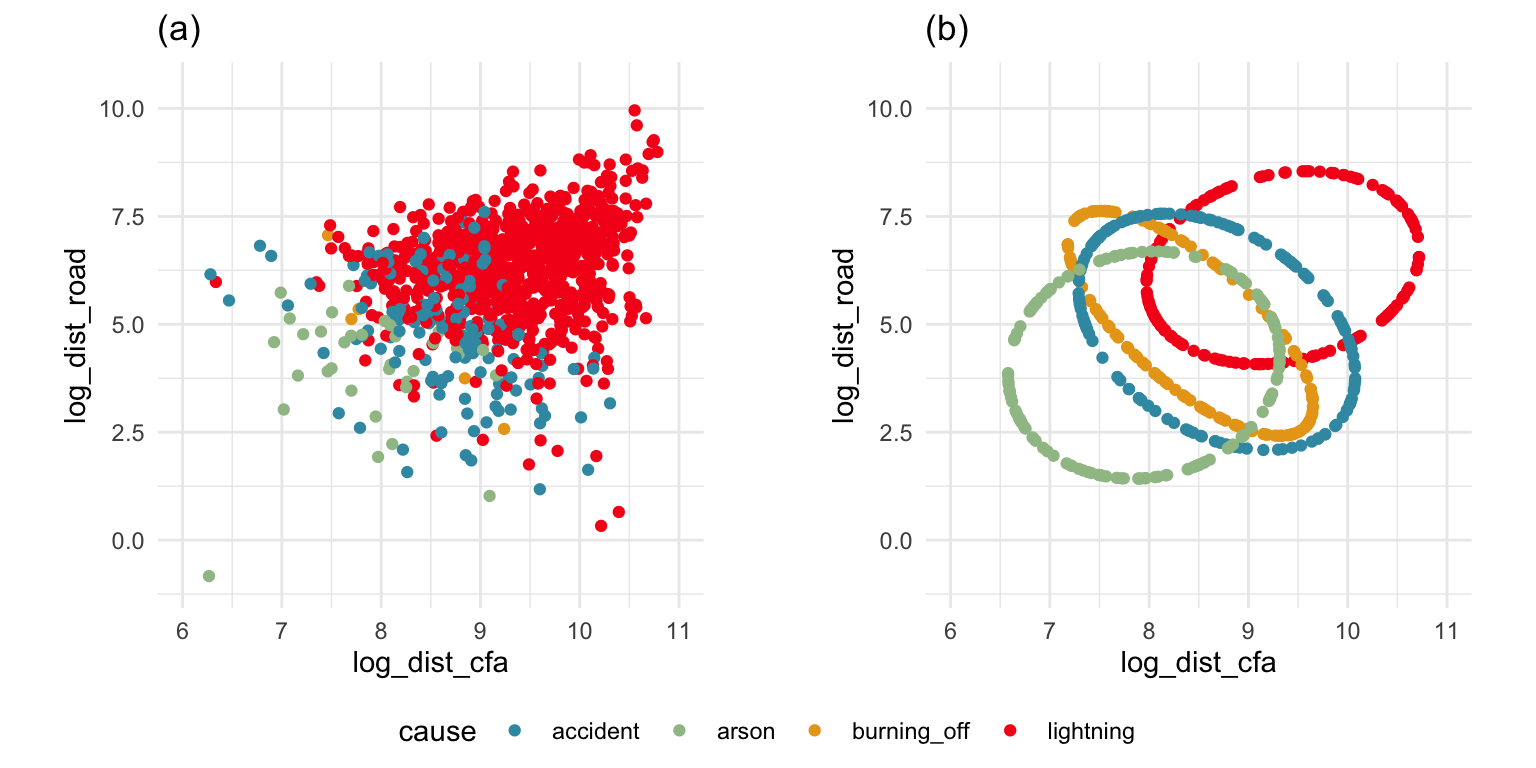
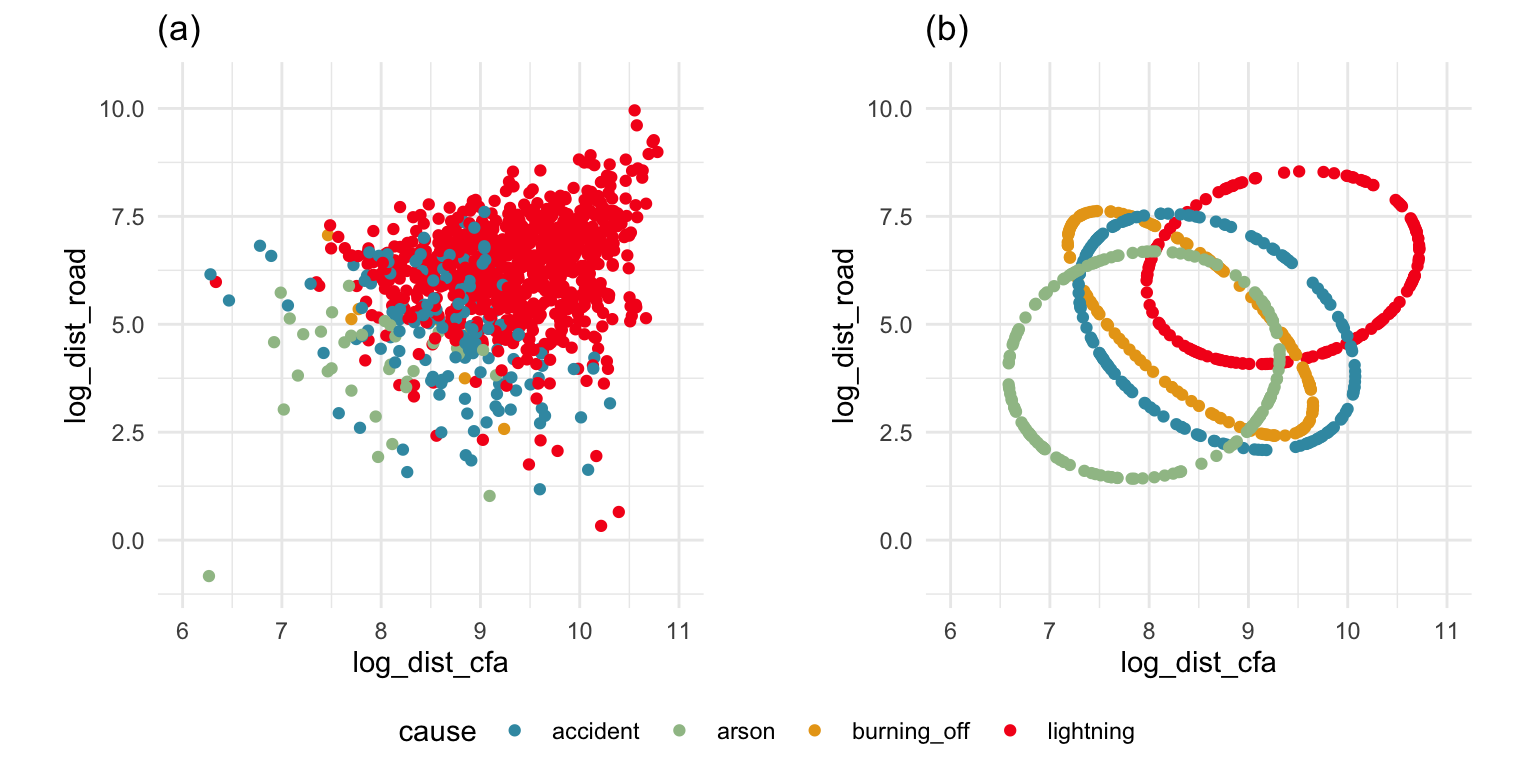
roughly filled in k-means

diff --git a/docs/kmeans-clustering.html b/docs/kmeans-clustering.html
@@ -20,6 +20,69 @@ ul.task-list li input[type="checkbox"] {
   margin: 0 0.8em 0.2em -1.6em;
   vertical-align: middle;
 }
+pre > code.sourceCode { white-space: pre; position: relative; }
+pre > code.sourceCode > span { display: inline-block; line-height: 1.25; }
+pre > code.sourceCode > span:empty { height: 1.2em; }
+.sourceCode { overflow: visible; }
+code.sourceCode > span { color: inherit; text-decoration: inherit; }
+div.sourceCode { margin: 1em 0; }
+pre.sourceCode { margin: 0; }
+@media screen {
+div.sourceCode { overflow: auto; }
+}
+@media print {
+pre > code.sourceCode { white-space: pre-wrap; }
+pre > code.sourceCode > span { text-indent: -5em; padding-left: 5em; }
+}
+pre.numberSource code
+  { counter-reset: source-line 0; }
+pre.numberSource code > span
+  { position: relative; left: -4em; counter-increment: source-line; }
+pre.numberSource code > span > a:first-child::before
+  { content: counter(source-line);
+    position: relative; left: -1em; text-align: right; vertical-align: baseline;
+    border: none; display: inline-block;
+    -webkit-touch-callout: none; -webkit-user-select: none;
+    -khtml-user-select: none; -moz-user-select: none;
+    -ms-user-select: none; user-select: none;
+    padding: 0 4px; width: 4em;
+    color: #aaaaaa;
+  }
+pre.numberSource { margin-left: 3em; border-left: 1px solid #aaaaaa;  padding-left: 4px; }
+div.sourceCode
+  {   }
+@media screen {
+pre > code.sourceCode > span > a:first-child::before { text-decoration: underline; }
+}
+code span.al { color: #ff0000; font-weight: bold; } /* Alert */
+code span.an { color: #60a0b0; font-weight: bold; font-style: italic; } /* Annotation */
+code span.at { color: #7d9029; } /* Attribute */
+code span.bn { color: #40a070; } /* BaseN */
+code span.bu { color: #008000; } /* BuiltIn */
+code span.cf { color: #007020; font-weight: bold; } /* ControlFlow */
+code span.ch { color: #4070a0; } /* Char */
+code span.cn { color: #880000; } /* Constant */
+code span.co { color: #60a0b0; font-style: italic; } /* Comment */
+code span.cv { color: #60a0b0; font-weight: bold; font-style: italic; } /* CommentVar */
+code span.do { color: #ba2121; font-style: italic; } /* Documentation */
+code span.dt { color: #902000; } /* DataType */
+code span.dv { color: #40a070; } /* DecVal */
+code span.er { color: #ff0000; font-weight: bold; } /* Error */
+code span.ex { } /* Extension */
+code span.fl { color: #40a070; } /* Float */
+code span.fu { color: #06287e; } /* Function */
+code span.im { color: #008000; font-weight: bold; } /* Import */
+code span.in { color: #60a0b0; font-weight: bold; font-style: italic; } /* Information */
+code span.kw { color: #007020; font-weight: bold; } /* Keyword */
+code span.op { color: #666666; } /* Operator */
+code span.ot { color: #007020; } /* Other */
+code span.pp { color: #bc7a00; } /* Preprocessor */
+code span.sc { color: #4070a0; } /* SpecialChar */
+code span.ss { color: #bb6688; } /* SpecialString */
+code span.st { color: #4070a0; } /* String */
+code span.va { color: #19177c; } /* Variable */
+code span.vs { color: #4070a0; } /* VerbatimString */
+code span.wa { color: #60a0b0; font-weight: bold; font-style: italic; } /* Warning */
 </style>
 
 
@@ -261,7 +324,13 @@ ul.task-list li input[type="checkbox"] {
 </nav>
 <!-- margin-sidebar -->
     <div id="quarto-margin-sidebar" class="sidebar margin-sidebar">
-        
+        <nav id="TOC" role="doc-toc" class="toc-active">
+    <h2 id="toc-title">Table of contents</h2>
+   
+  <ul>
+  <li><a href="#exercises" id="toc-exercises" class="nav-link active" data-scroll-target="#exercises">Exercises</a></li>
+  </ul>
+</nav>
     </div>
 <!-- main -->
 <main class="content" id="quarto-document-content">
@@ -283,6 +352,7 @@ ul.task-list li input[type="checkbox"] {
 
 </header>
 
+<p>One of the simplest and efficient techniques for clustering data is the <span class="math inline">\(k\)</span>-means algorithm. The algorithm begins with a choice for <span class="math inline">\(k\)</span>, the number of clusters to divide the data into. It is seeded with <span class="math inline">\(k\)</span> initial means, and sequentially iterates through the observations, assigning them to the nearest mean, and re-calculating the <span class="math inline">\(k\)</span> means. It stops at a given number of iterations or when points no longer change clusters. The algorithm will tend to segment the data into roughly equal sized, or spherical clusters, and thus will work well if the clusters are separated and equally spherical in shape.</p>
 <div class="info">
 <p>The key elements to examine in a k-means clustering algorithm result are:</p>
 <ul>
@@ -290,8 +360,114 @@ ul.task-list li input[type="checkbox"] {
 <li>boundaries</li>
 </ul>
 </div>
+<p><a href="#fig-km-2D">Figure&nbsp;<span>7.1</span></a> shows the results of <span class="math inline">\(k\)</span>-means clustering on the 2D <code>simple_clusters</code> data and two variables of the penguins data. We can see that it works well when the clusters are spherical, but for the penguins data it fails because the shape of the clusters is elliptical. It actually makes a mistake that would not be made if we simply visually clustered: cluster 3 has grouped points across a gap, a divide that visually we would all agree should form a separation.</p>
+<div class="cell">
+<div class="sourceCode cell-code" id="cb1"><pre class="sourceCode r code-with-copy"><code class="sourceCode r"><span id="cb1-1"><a href="#cb1-1" aria-hidden="true" tabindex="-1"></a><span class="fu">library</span>(mulgar)</span>
+<span id="cb1-2"><a href="#cb1-2" aria-hidden="true" tabindex="-1"></a><span class="fu">library</span>(ggplot2)</span>
+<span id="cb1-3"><a href="#cb1-3" aria-hidden="true" tabindex="-1"></a><span class="fu">library</span>(dplyr)</span>
+<span id="cb1-4"><a href="#cb1-4" aria-hidden="true" tabindex="-1"></a><span class="fu">library</span>(colorspace)</span>
+<span id="cb1-5"><a href="#cb1-5" aria-hidden="true" tabindex="-1"></a><span class="fu">library</span>(patchwork)</span>
+<span id="cb1-6"><a href="#cb1-6" aria-hidden="true" tabindex="-1"></a><span class="fu">data</span>(<span class="st">"simple_clusters"</span>)</span>
+<span id="cb1-7"><a href="#cb1-7" aria-hidden="true" tabindex="-1"></a><span class="fu">load</span>(<span class="st">"data/penguins_sub.rda"</span>)</span>
+<span id="cb1-8"><a href="#cb1-8" aria-hidden="true" tabindex="-1"></a></span>
+<span id="cb1-9"><a href="#cb1-9" aria-hidden="true" tabindex="-1"></a><span class="fu">set.seed</span>(<span class="dv">202305</span>)</span>
+<span id="cb1-10"><a href="#cb1-10" aria-hidden="true" tabindex="-1"></a>sc_bl_bd_km <span class="ot">&lt;-</span> <span class="fu">kmeans</span>(simple_clusters[,<span class="dv">1</span><span class="sc">:</span><span class="dv">2</span>], <span class="at">centers=</span><span class="dv">2</span>, </span>
+<span id="cb1-11"><a href="#cb1-11" aria-hidden="true" tabindex="-1"></a>                     <span class="at">iter.max =</span> <span class="dv">50</span>, <span class="at">nstart =</span> <span class="dv">5</span>)</span>
+<span id="cb1-12"><a href="#cb1-12" aria-hidden="true" tabindex="-1"></a>sc_bl_bd_km_means <span class="ot">&lt;-</span> <span class="fu">data.frame</span>(sc_bl_bd_km<span class="sc">$</span>centers) <span class="sc">%&gt;%</span></span>
+<span id="cb1-13"><a href="#cb1-13" aria-hidden="true" tabindex="-1"></a>  <span class="fu">mutate</span>(<span class="at">cl =</span> <span class="fu">factor</span>(<span class="fu">rownames</span>(sc_bl_bd_km<span class="sc">$</span>centers)))</span>
+<span id="cb1-14"><a href="#cb1-14" aria-hidden="true" tabindex="-1"></a>sc_bl_bd_km_d <span class="ot">&lt;-</span> simple_clusters[,<span class="dv">1</span><span class="sc">:</span><span class="dv">2</span>] <span class="sc">%&gt;%</span> </span>
+<span id="cb1-15"><a href="#cb1-15" aria-hidden="true" tabindex="-1"></a>  <span class="fu">mutate</span>(<span class="at">cl =</span> <span class="fu">factor</span>(sc_bl_bd_km<span class="sc">$</span>cluster))</span>
+<span id="cb1-16"><a href="#cb1-16" aria-hidden="true" tabindex="-1"></a></span>
+<span id="cb1-17"><a href="#cb1-17" aria-hidden="true" tabindex="-1"></a>sc_bl_bd_km_p <span class="ot">&lt;-</span> <span class="fu">ggplot</span>() <span class="sc">+</span></span>
+<span id="cb1-18"><a href="#cb1-18" aria-hidden="true" tabindex="-1"></a>  <span class="fu">geom_point</span>(<span class="at">data=</span>sc_bl_bd_km_d, </span>
+<span id="cb1-19"><a href="#cb1-19" aria-hidden="true" tabindex="-1"></a>             <span class="fu">aes</span>(<span class="at">x=</span>x1, <span class="at">y=</span>x2, <span class="at">colour=</span>cl), </span>
+<span id="cb1-20"><a href="#cb1-20" aria-hidden="true" tabindex="-1"></a>             <span class="at">shape=</span><span class="dv">16</span>) <span class="sc">+</span></span>
+<span id="cb1-21"><a href="#cb1-21" aria-hidden="true" tabindex="-1"></a>  <span class="fu">geom_point</span>(<span class="at">data=</span>sc_bl_bd_km_means, </span>
+<span id="cb1-22"><a href="#cb1-22" aria-hidden="true" tabindex="-1"></a>             <span class="fu">aes</span>(<span class="at">x=</span>x1, <span class="at">y=</span>x2, <span class="at">colour=</span>cl), </span>
+<span id="cb1-23"><a href="#cb1-23" aria-hidden="true" tabindex="-1"></a>             <span class="at">shape=</span><span class="dv">3</span>, <span class="at">size=</span><span class="dv">5</span>) <span class="sc">+</span></span>
+<span id="cb1-24"><a href="#cb1-24" aria-hidden="true" tabindex="-1"></a>    <span class="fu">scale_color_discrete_divergingx</span>(<span class="st">"Zissou 1"</span>) <span class="sc">+</span></span>
+<span id="cb1-25"><a href="#cb1-25" aria-hidden="true" tabindex="-1"></a>  <span class="fu">ggtitle</span>(<span class="st">"(a)"</span>) <span class="sc">+</span></span>
+<span id="cb1-26"><a href="#cb1-26" aria-hidden="true" tabindex="-1"></a>  <span class="fu">theme_minimal</span>() <span class="sc">+</span></span>
+<span id="cb1-27"><a href="#cb1-27" aria-hidden="true" tabindex="-1"></a>  <span class="fu">theme</span>(<span class="at">aspect.ratio =</span> <span class="dv">1</span>, </span>
+<span id="cb1-28"><a href="#cb1-28" aria-hidden="true" tabindex="-1"></a>        <span class="at">legend.position =</span> <span class="st">"bottom"</span>,</span>
+<span id="cb1-29"><a href="#cb1-29" aria-hidden="true" tabindex="-1"></a>        <span class="at">legend.title =</span> <span class="fu">element_blank</span>()) </span>
+<span id="cb1-30"><a href="#cb1-30" aria-hidden="true" tabindex="-1"></a></span>
+<span id="cb1-31"><a href="#cb1-31" aria-hidden="true" tabindex="-1"></a>p_bl_bd_km <span class="ot">&lt;-</span> <span class="fu">kmeans</span>(penguins_sub[,<span class="dv">1</span><span class="sc">:</span><span class="dv">2</span>], <span class="at">centers=</span><span class="dv">3</span>, </span>
+<span id="cb1-32"><a href="#cb1-32" aria-hidden="true" tabindex="-1"></a>                     <span class="at">iter.max =</span> <span class="dv">50</span>, <span class="at">nstart =</span> <span class="dv">5</span>)</span>
+<span id="cb1-33"><a href="#cb1-33" aria-hidden="true" tabindex="-1"></a>p_bl_bd_km_means <span class="ot">&lt;-</span> <span class="fu">data.frame</span>(p_bl_bd_km<span class="sc">$</span>centers) <span class="sc">%&gt;%</span></span>
+<span id="cb1-34"><a href="#cb1-34" aria-hidden="true" tabindex="-1"></a>  <span class="fu">mutate</span>(<span class="at">cl =</span> <span class="fu">factor</span>(<span class="fu">rownames</span>(p_bl_bd_km<span class="sc">$</span>centers)))</span>
+<span id="cb1-35"><a href="#cb1-35" aria-hidden="true" tabindex="-1"></a>p_bl_bd_km_d <span class="ot">&lt;-</span> penguins_sub[,<span class="dv">1</span><span class="sc">:</span><span class="dv">2</span>] <span class="sc">%&gt;%</span> </span>
+<span id="cb1-36"><a href="#cb1-36" aria-hidden="true" tabindex="-1"></a>  <span class="fu">mutate</span>(<span class="at">cl =</span> <span class="fu">factor</span>(p_bl_bd_km<span class="sc">$</span>cluster))</span>
+<span id="cb1-37"><a href="#cb1-37" aria-hidden="true" tabindex="-1"></a></span>
+<span id="cb1-38"><a href="#cb1-38" aria-hidden="true" tabindex="-1"></a>p_bl_bd_km_p <span class="ot">&lt;-</span> <span class="fu">ggplot</span>() <span class="sc">+</span></span>
+<span id="cb1-39"><a href="#cb1-39" aria-hidden="true" tabindex="-1"></a>  <span class="fu">geom_point</span>(<span class="at">data=</span>p_bl_bd_km_d, </span>
+<span id="cb1-40"><a href="#cb1-40" aria-hidden="true" tabindex="-1"></a>             <span class="fu">aes</span>(<span class="at">x=</span>bl, <span class="at">y=</span>bd, <span class="at">colour=</span>cl), <span class="at">shape=</span><span class="dv">16</span>) <span class="sc">+</span></span>
+<span id="cb1-41"><a href="#cb1-41" aria-hidden="true" tabindex="-1"></a>  <span class="fu">geom_point</span>(<span class="at">data=</span>p_bl_bd_km_means, </span>
+<span id="cb1-42"><a href="#cb1-42" aria-hidden="true" tabindex="-1"></a>             <span class="fu">aes</span>(<span class="at">x=</span>bl, <span class="at">y=</span>bd, <span class="at">colour=</span>cl), <span class="at">shape=</span><span class="dv">3</span>, <span class="at">size=</span><span class="dv">5</span>) <span class="sc">+</span></span>
+<span id="cb1-43"><a href="#cb1-43" aria-hidden="true" tabindex="-1"></a>    <span class="fu">scale_color_discrete_divergingx</span>(<span class="st">"Zissou 1"</span>) <span class="sc">+</span></span>
+<span id="cb1-44"><a href="#cb1-44" aria-hidden="true" tabindex="-1"></a>  <span class="fu">ggtitle</span>(<span class="st">"(b)"</span>) <span class="sc">+</span></span>
+<span id="cb1-45"><a href="#cb1-45" aria-hidden="true" tabindex="-1"></a>  <span class="fu">theme_minimal</span>() <span class="sc">+</span></span>
+<span id="cb1-46"><a href="#cb1-46" aria-hidden="true" tabindex="-1"></a>  <span class="fu">theme</span>(<span class="at">aspect.ratio =</span> <span class="dv">1</span>, </span>
+<span id="cb1-47"><a href="#cb1-47" aria-hidden="true" tabindex="-1"></a>        <span class="at">legend.position =</span> <span class="st">"bottom"</span>,</span>
+<span id="cb1-48"><a href="#cb1-48" aria-hidden="true" tabindex="-1"></a>        <span class="at">legend.title =</span> <span class="fu">element_blank</span>()) </span>
+<span id="cb1-49"><a href="#cb1-49" aria-hidden="true" tabindex="-1"></a></span>
+<span id="cb1-50"><a href="#cb1-50" aria-hidden="true" tabindex="-1"></a>sc_bl_bd_km_p <span class="sc">+</span> p_bl_bd_km_p <span class="sc">+</span> <span class="fu">plot_layout</span>(<span class="at">ncol=</span><span class="dv">2</span>)</span></code><button title="Copy to Clipboard" class="code-copy-button"><i class="bi"></i></button></pre></div>
+<div class="cell-output-display">
+<div id="fig-km-2D" class="quarto-figure quarto-figure-center anchored">
+<figure class="figure">
+<p><img src="kmeans-clustering_files/figure-html/fig-km-2D-1.png" class="img-fluid figure-img" width="768"></p>
+<p></p><figcaption class="figure-caption">Figure&nbsp;7.1: Examining <span class="math inline">\(k\)</span>-means clustering results for simple clusters (a) and two variables of the penguins data (b). The means are indicated by a <span class="math inline">\(+\)</span>. The results are perfect for the simple clusters but not for the penguins data. The penguin clusters are elliptically shaped which is not captured by <span class="math inline">\(k\)</span>-means. Cluster 3 has observations grouped across a gap in the data.</figcaption><p></p>
+</figure>
+</div>
+</div>
+</div>
+<p>This approach extends to high-dimensions. One colours observations by the cluster label, and overlays the final cluster means. If we see gaps in points in a single cluster it would mean that <span class="math inline">\(k\)</span>-means fails to see important cluster structure. This is what happens with the 4D penguins data as shown in <a href="#fig-p-km">Figure&nbsp;<span>7.2</span></a>.</p>
+<div class="cell">
+<div class="sourceCode cell-code" id="cb2"><pre class="sourceCode r code-with-copy"><code class="sourceCode r"><span id="cb2-1"><a href="#cb2-1" aria-hidden="true" tabindex="-1"></a>p_km <span class="ot">&lt;-</span> <span class="fu">kmeans</span>(penguins_sub[,<span class="dv">1</span><span class="sc">:</span><span class="dv">4</span>], <span class="at">centers=</span><span class="dv">3</span>, </span>
+<span id="cb2-2"><a href="#cb2-2" aria-hidden="true" tabindex="-1"></a>                     <span class="at">iter.max =</span> <span class="dv">50</span>, <span class="at">nstart =</span> <span class="dv">5</span>)</span>
+<span id="cb2-3"><a href="#cb2-3" aria-hidden="true" tabindex="-1"></a>p_km_means <span class="ot">&lt;-</span> <span class="fu">data.frame</span>(p_km<span class="sc">$</span>centers) <span class="sc">%&gt;%</span></span>
+<span id="cb2-4"><a href="#cb2-4" aria-hidden="true" tabindex="-1"></a>  <span class="fu">mutate</span>(<span class="at">cl =</span> <span class="fu">factor</span>(<span class="fu">rownames</span>(p_km<span class="sc">$</span>centers)))</span>
+<span id="cb2-5"><a href="#cb2-5" aria-hidden="true" tabindex="-1"></a>p_km_d <span class="ot">&lt;-</span> penguins_sub[,<span class="dv">1</span><span class="sc">:</span><span class="dv">4</span>] <span class="sc">%&gt;%</span> </span>
+<span id="cb2-6"><a href="#cb2-6" aria-hidden="true" tabindex="-1"></a>  <span class="fu">mutate</span>(<span class="at">cl =</span> <span class="fu">factor</span>(p_km<span class="sc">$</span>cluster))</span></code><button title="Copy to Clipboard" class="code-copy-button"><i class="bi"></i></button></pre></div>
+</div>
+<div class="cell">
+<details>
+<summary>Code</summary>
+<div class="sourceCode cell-code" id="cb3"><pre class="sourceCode r code-with-copy"><code class="sourceCode r"><span id="cb3-1"><a href="#cb3-1" aria-hidden="true" tabindex="-1"></a><span class="fu">library</span>(tourr)</span>
+<span id="cb3-2"><a href="#cb3-2" aria-hidden="true" tabindex="-1"></a>p_km_means <span class="ot">&lt;-</span> p_km_means <span class="sc">%&gt;%</span></span>
+<span id="cb3-3"><a href="#cb3-3" aria-hidden="true" tabindex="-1"></a>  <span class="fu">mutate</span>(<span class="at">type =</span> <span class="st">"mean"</span>)</span>
+<span id="cb3-4"><a href="#cb3-4" aria-hidden="true" tabindex="-1"></a>p_km_d <span class="ot">&lt;-</span> p_km_d <span class="sc">%&gt;%</span></span>
+<span id="cb3-5"><a href="#cb3-5" aria-hidden="true" tabindex="-1"></a>  <span class="fu">mutate</span>(<span class="at">type =</span> <span class="st">"data"</span>)</span>
+<span id="cb3-6"><a href="#cb3-6" aria-hidden="true" tabindex="-1"></a>p_km_all <span class="ot">&lt;-</span> <span class="fu">bind_rows</span>(p_km_means, p_km_d)</span>
+<span id="cb3-7"><a href="#cb3-7" aria-hidden="true" tabindex="-1"></a>p_km_all<span class="sc">$</span>type <span class="ot">&lt;-</span> <span class="fu">factor</span>(p_km_all<span class="sc">$</span>type, <span class="at">levels=</span><span class="fu">c</span>(<span class="st">"mean"</span>, <span class="st">"data"</span>))</span>
+<span id="cb3-8"><a href="#cb3-8" aria-hidden="true" tabindex="-1"></a>p_pch <span class="ot">&lt;-</span> <span class="fu">c</span>(<span class="dv">3</span>, <span class="dv">20</span>)[<span class="fu">as.numeric</span>(p_km_all<span class="sc">$</span>type)]</span>
+<span id="cb3-9"><a href="#cb3-9" aria-hidden="true" tabindex="-1"></a>p_cex <span class="ot">&lt;-</span> <span class="fu">c</span>(<span class="dv">3</span>, <span class="dv">1</span>)[<span class="fu">as.numeric</span>(p_km_all<span class="sc">$</span>type)]</span>
+<span id="cb3-10"><a href="#cb3-10" aria-hidden="true" tabindex="-1"></a><span class="fu">animate_xy</span>(p_km_all[,<span class="dv">1</span><span class="sc">:</span><span class="dv">4</span>], <span class="at">col=</span>p_km_all<span class="sc">$</span>cl, </span>
+<span id="cb3-11"><a href="#cb3-11" aria-hidden="true" tabindex="-1"></a>           <span class="at">pch=</span>p_pch, <span class="at">cex=</span>p_cex, <span class="at">axes=</span><span class="st">"bottomleft"</span>)</span>
+<span id="cb3-12"><a href="#cb3-12" aria-hidden="true" tabindex="-1"></a><span class="fu">render_gif</span>(p_km_all[,<span class="dv">1</span><span class="sc">:</span><span class="dv">4</span>],</span>
+<span id="cb3-13"><a href="#cb3-13" aria-hidden="true" tabindex="-1"></a>           <span class="fu">grand_tour</span>(),</span>
+<span id="cb3-14"><a href="#cb3-14" aria-hidden="true" tabindex="-1"></a>           <span class="fu">display_xy</span>(<span class="at">col=</span>p_km_all<span class="sc">$</span>cl, </span>
+<span id="cb3-15"><a href="#cb3-15" aria-hidden="true" tabindex="-1"></a>                      <span class="at">pch=</span>p_pch, </span>
+<span id="cb3-16"><a href="#cb3-16" aria-hidden="true" tabindex="-1"></a>                      <span class="at">cex=</span>p_cex, </span>
+<span id="cb3-17"><a href="#cb3-17" aria-hidden="true" tabindex="-1"></a>                      <span class="at">axes=</span><span class="st">"bottomleft"</span>),</span>
+<span id="cb3-18"><a href="#cb3-18" aria-hidden="true" tabindex="-1"></a>           <span class="at">gif_file=</span><span class="st">"gifs/p_km.gif"</span>,</span>
+<span id="cb3-19"><a href="#cb3-19" aria-hidden="true" tabindex="-1"></a>           <span class="at">width=</span><span class="dv">400</span>,</span>
+<span id="cb3-20"><a href="#cb3-20" aria-hidden="true" tabindex="-1"></a>           <span class="at">height=</span><span class="dv">400</span>,</span>
+<span id="cb3-21"><a href="#cb3-21" aria-hidden="true" tabindex="-1"></a>           <span class="at">frames=</span><span class="dv">500</span>)</span></code><button title="Copy to Clipboard" class="code-copy-button"><i class="bi"></i></button></pre></div>
+</details>
+</div>
+<div id="fig-p-km" class="quarto-figure quarto-figure-center anchored">
+<figure class="figure">
+<p><img src="gifs/p_km.gif" class="img-fluid figure-img" alt="FIX ME" width="300"></p>
+<p></p><figcaption class="figure-caption">Figure&nbsp;7.2: Exploring the k-means clustering result for the 4D penguins data.</figcaption><p></p>
+</figure>
+</div>
+<p>Generally, there is no need to choose <span class="math inline">\(k\)</span> ahead of time. One would re-fit <span class="math inline">\(k\)</span>-means with various choices of <span class="math inline">\(k\)</span>, and compare the <code>tot.withinss</code> and examine the clusters visually, to decide on the optimal final value of <span class="math inline">\(k\)</span>.</p>
+<section id="exercises" class="level2 unnumbered">
+<h2 class="unnumbered anchored" data-anchor-id="exercises">Exercises</h2>
 
 
+</section>
 
 </main> <!-- /main -->
 <script id="quarto-html-after-body" type="application/javascript">

diff --git a/docs/toolbox.html b/docs/toolbox.html
@@ -62,6 +62,7 @@ ul.task-list li input[type="checkbox"] {
   }
 }</script>
 
+  <script src="https://cdn.jsdelivr.net/npm/mathjax@3/es5/tex-chtml-full.js" type="text/javascript"></script>
 
 <link rel="stylesheet" href="style.css">
 </head>
@@ -155,7 +156,7 @@ ul.task-list li input[type="checkbox"] {
 </li>
           <li class="sidebar-item">
   <div class="sidebar-item-container"> 
-  <a href="./kmeans-clustering.html" class="sidebar-item-text sidebar-link"><span class="chapter-number">7</span>&nbsp; <span class="chapter-title">k-means clustering</span></a>
+  <a href="./kmeans-clustering.html" class="sidebar-item-text sidebar-link"><span class="chapter-number">7</span>&nbsp; <span class="chapter-title"><span class="math inline">\(k\)</span>-means clustering</span></a>
   </div>
 </li>
           <li class="sidebar-item">
@@ -171,11 +172,6 @@ ul.task-list li input[type="checkbox"] {
           <li class="sidebar-item">
   <div class="sidebar-item-container"> 
   <a href="./unsupervised-summary.html" class="sidebar-item-text sidebar-link"><span class="chapter-number">10</span>&nbsp; <span class="chapter-title">Comparing methods</span></a>
-  </div>
-</li>
-          <li class="sidebar-item">
-  <div class="sidebar-item-container"> 
-  <a href="./unsupervised-ex.html" class="sidebar-item-text sidebar-link">Exercises</a>
   </div>
 </li>
       </ul>
@@ -208,6 +204,11 @@ ul.task-list li input[type="checkbox"] {
   <a href="./nn.html" class="sidebar-item-text sidebar-link"><span class="chapter-number">14</span>&nbsp; <span class="chapter-title">Neural networks and deep learning</span></a>
   </div>
 </li>
+          <li class="sidebar-item">
+  <div class="sidebar-item-container"> 
+  <a href="./misclassifications.html" class="sidebar-item-text sidebar-link"><span class="chapter-number">15</span>&nbsp; <span class="chapter-title">Exploring misclassifications</span></a>
+  </div>
+</li>
       </ul>
   </li>
         <li class="sidebar-item sidebar-item-section">
@@ -220,7 +221,7 @@ ul.task-list li input[type="checkbox"] {
       <ul id="quarto-sidebar-section-4" class="collapse list-unstyled sidebar-section depth1 show">  
           <li class="sidebar-item">
   <div class="sidebar-item-container"> 
-  <a href="./multivariate-time-series.html" class="sidebar-item-text sidebar-link"><span class="chapter-number">15</span>&nbsp; <span class="chapter-title">Multiple time series</span></a>
+  <a href="./multivariate-time-series.html" class="sidebar-item-text sidebar-link"><span class="chapter-number">16</span>&nbsp; <span class="chapter-title">Multiple time series</span></a>
   </div>
 </li>
       </ul>
@@ -296,7 +297,12 @@ ul.task-list li input[type="checkbox"] {
 <p>And finally how to save tours, and make plot of single projection</p>
 <p>Need to include - half_range - standardizing variables</p>
 <p>Also include other software now available</p>
-<p>detourr langevitour</p>
+<ul>
+<li>detourr</li>
+<li>langevitour</li>
+<li>woylier</li>
+<li>spinifex</li>
+</ul>
 
 
 

diff --git a/docs/LDA.html b/docs/LDA.html
@@ -823,6 +823,9 @@ bm 0.18 0.20 0.16 0.31</code></pre>
 <p></p><figcaption class="figure-caption">Figure&nbsp;11.6: Examining the boundaries produced by the LDA model in the full 4D with a slice tour and in the discriminant space.</figcaption><p></p>
 </figure>
 </div>
+<div class="insight">
+<p>The LDA boundaries divide the classes in the discriminant space, and the remaining directions are irrelevant.</p>
+</div>
 </section>
 <section id="exercises" class="level2 unnumbered">
 <h2 class="unnumbered anchored" data-anchor-id="exercises">Exercises</h2>
